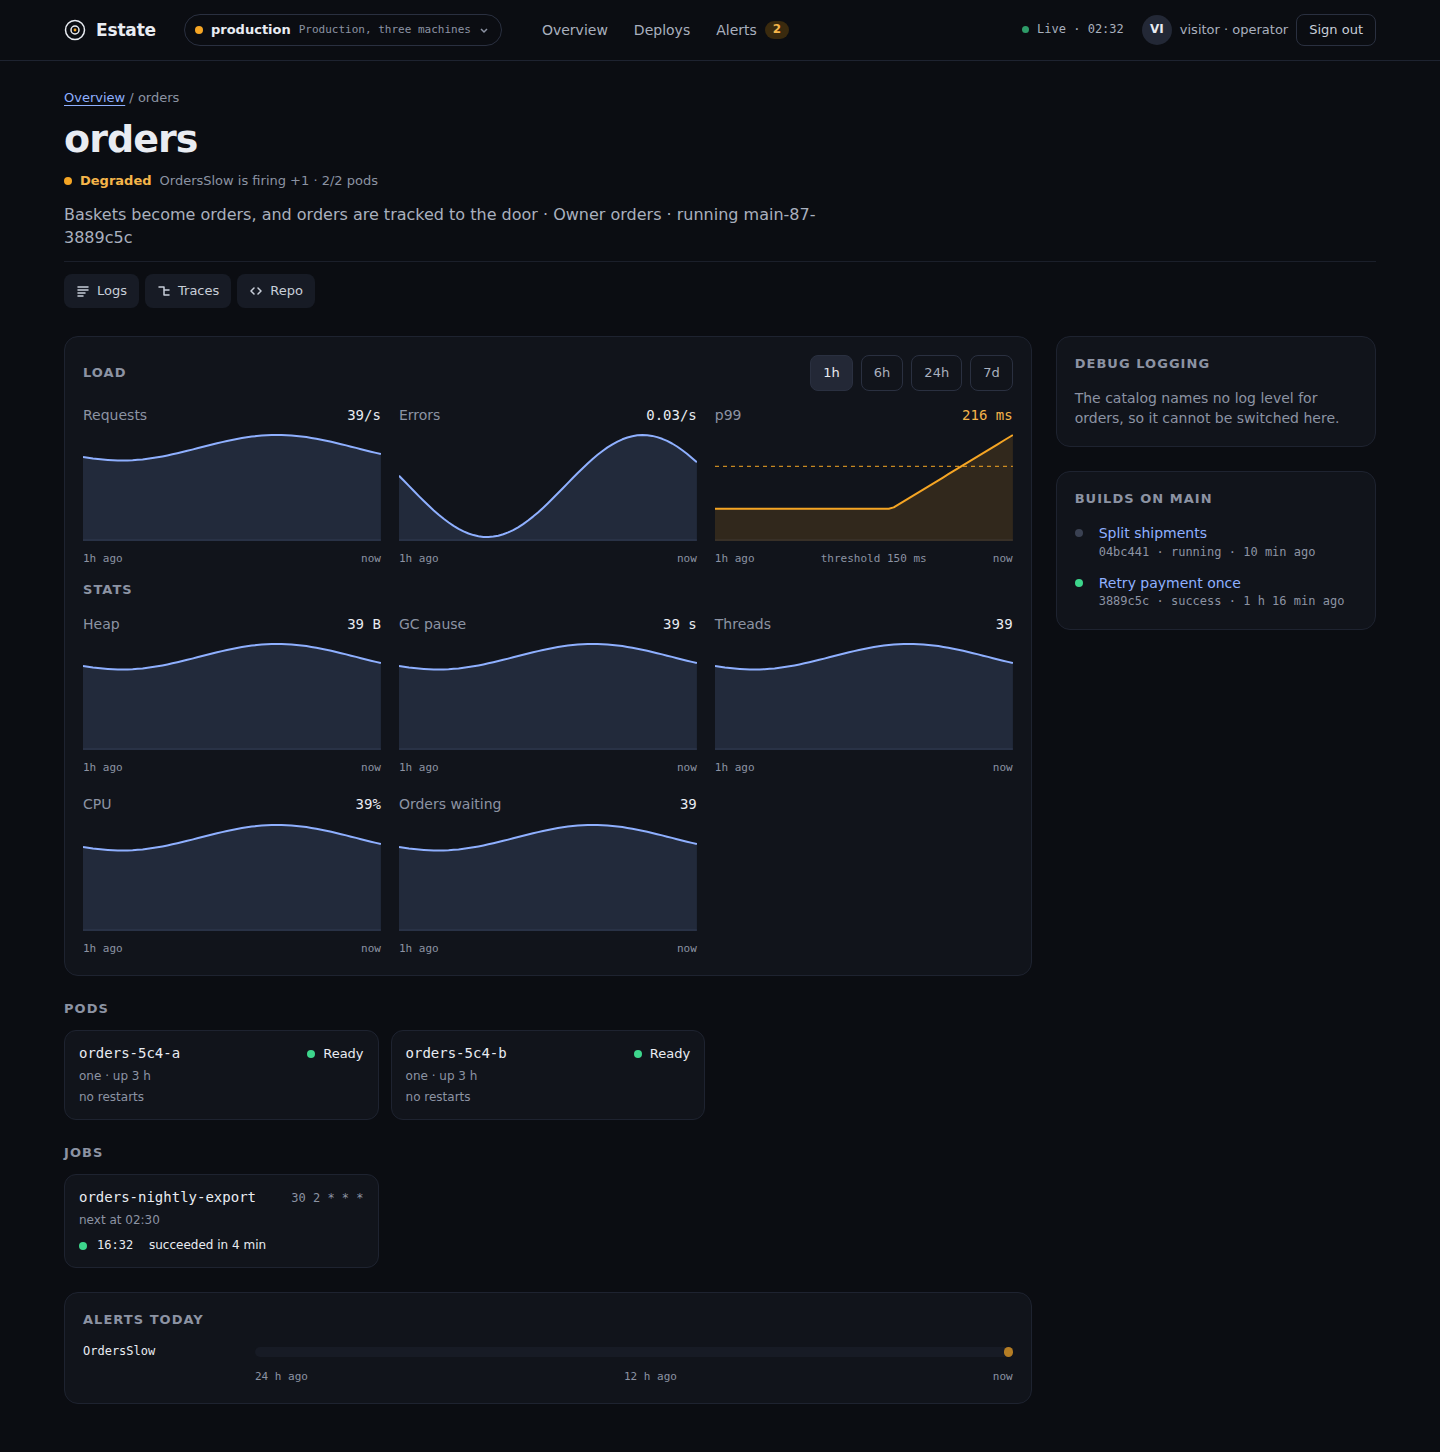
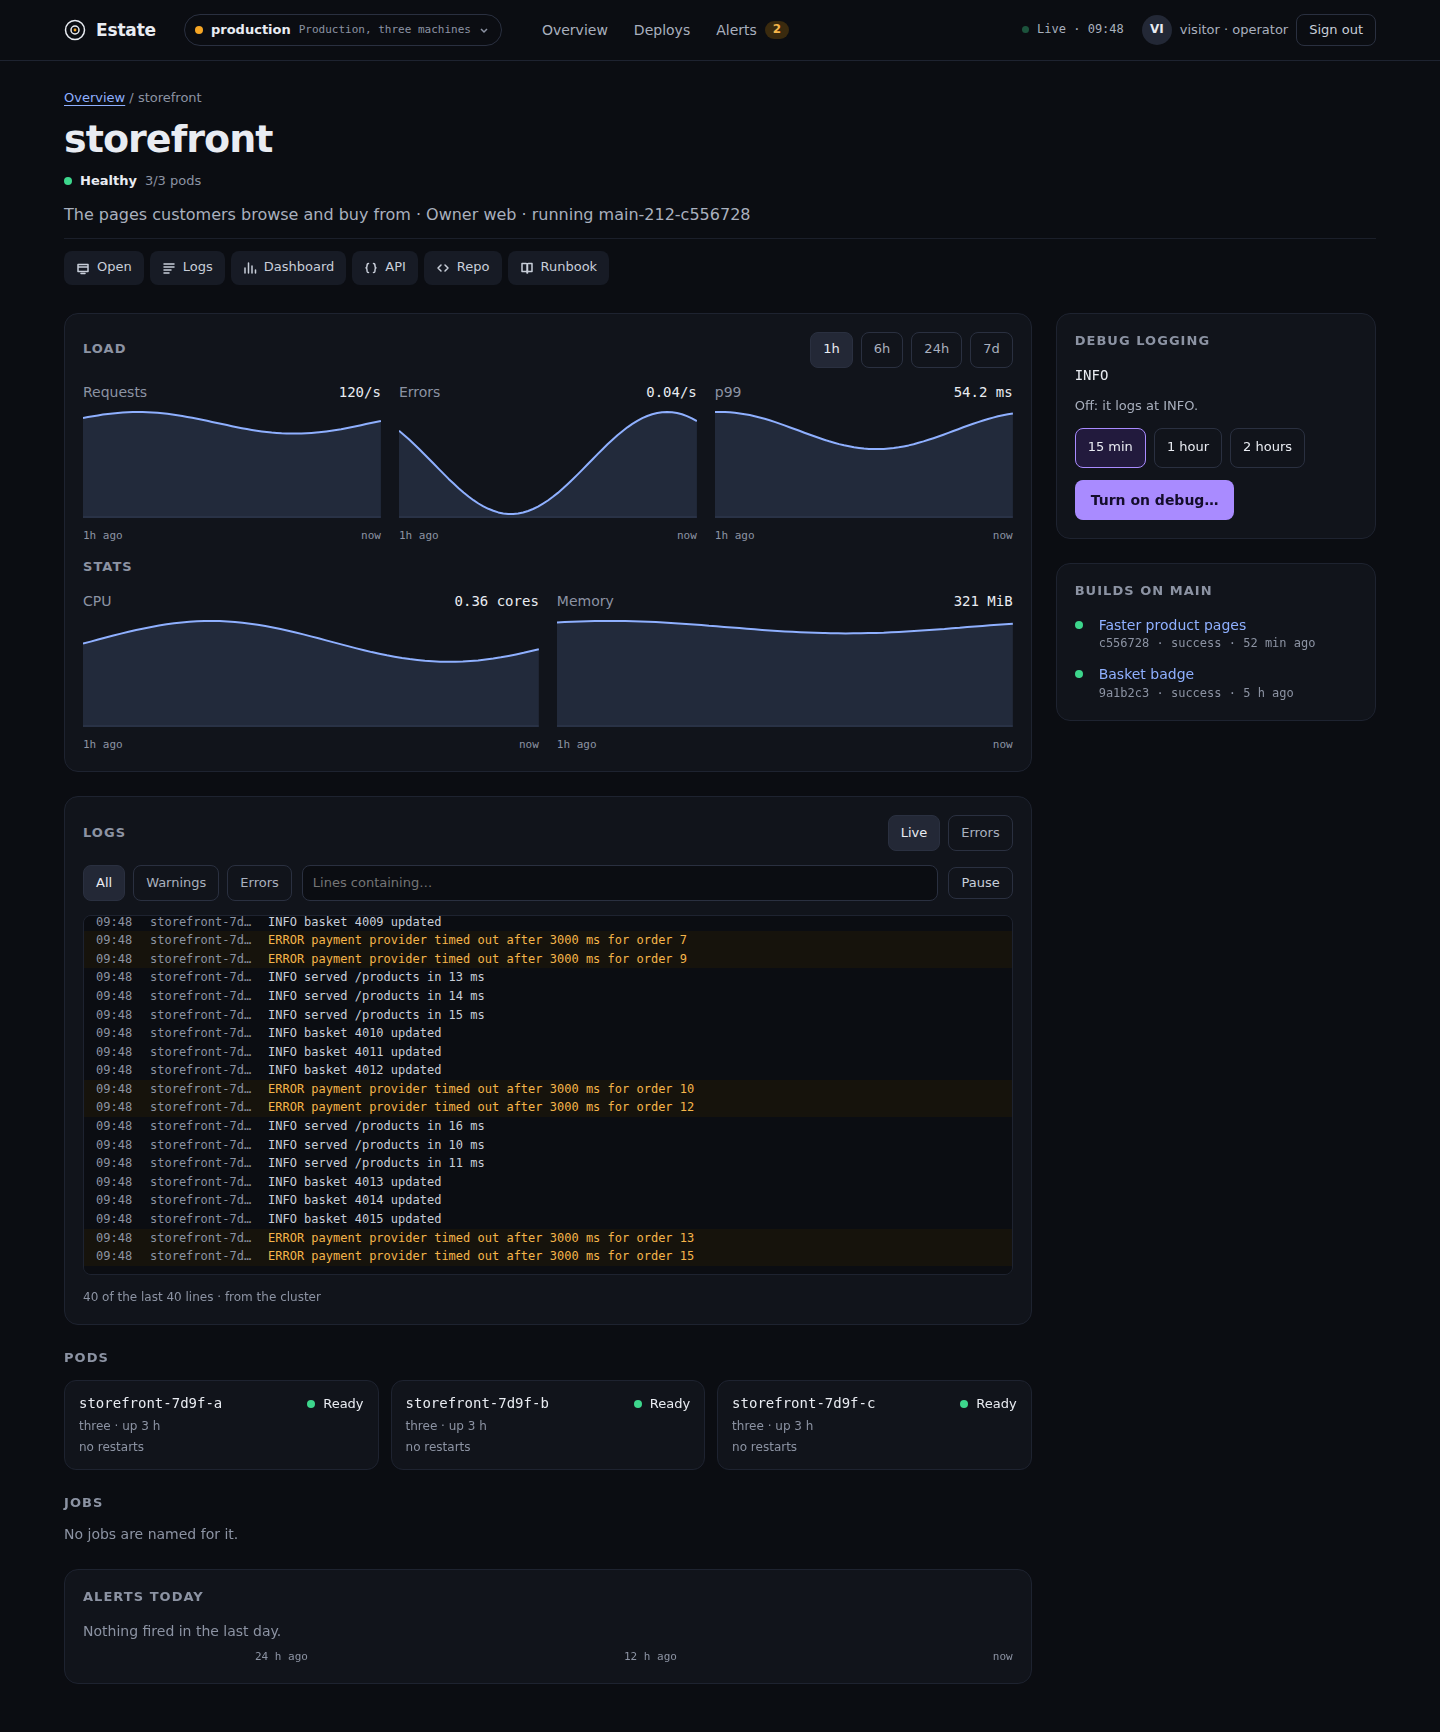
Show the page on other tools, and the kiosk, in the README
Fresh screenshots of the overview and a service page, the EKS estate on
Grafana, Argo CD and Elasticsearch, the Datadog environment with Jenkins
builds, and /kiosk on a 1080p screen, all against the e2e fake tools.

Claude-Session: https://claude.ai/code/session_01PiXEMhRYrb7um64anGo5Gk

diff --git a/README.md b/README.md
@@ -29,6 +29,13 @@ you already run and puts it in one place.
 Where Grafana sits in front of Prometheus and Loki, Estate can reach them through Grafana's data source proxy with
 one service account token, rather than with addresses and credentials of their own.
 
+The same page on other tools: EKS with Grafana's alerting, Argo CD and Elasticsearch; and an environment read wholly
+from Datadog, its service built by Jenkins.
+
+![An environment on Grafana, Argo CD and Elasticsearch](docs/eks.png)
+![An environment on Datadog](docs/datadog.png)
+![A service whose lines come from Datadog and builds from Jenkins](docs/datadog-service.png)
+
 ## What's on the page
 
 The overview starts with whatever is firing, each alert drawn against its threshold with a link to its runbook.
@@ -44,12 +51,14 @@ From the page you can:
 - watch a service's logs live, or see its errors grouped by message
 - compare what's deployed in each environment
 
+![A service page](docs/service.png)
+
 For a screen on the wall there is `/kiosk`: the headline, what's firing and every service worst first, in type you
 can read across a room, with nothing to press. Set `kiosk.token` and open `/kiosk?token=…` once on the screen; it
 signs in for 30 days and can read but never change anything. Environments take turns, `?team=payments` shows only
 the services that team owns, and if the screen stops hearing from Estate it says so in red.
 
-![A service page](docs/service.png)
+![The kiosk on a 1080p screen](docs/kiosk.png)
 
 ## Why it's built this way
 
